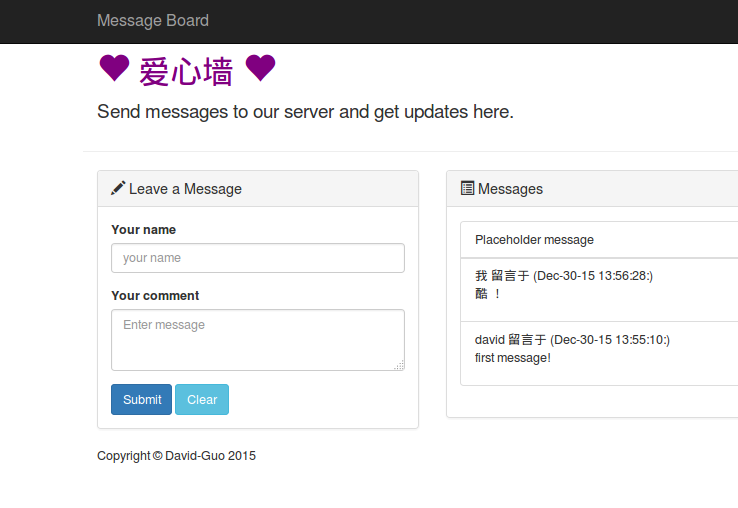
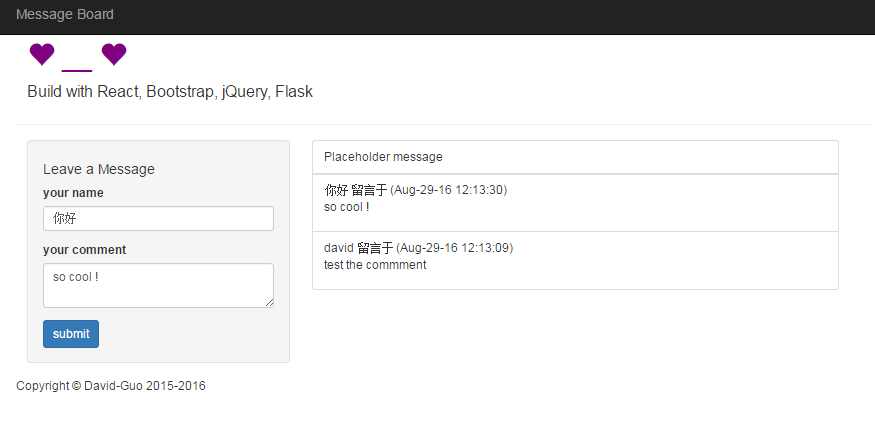
fix README

diff --git a/README.md b/README.md
@@ -1,10 +1,24 @@
-# Flask web 框架学习
-
-学习使用Flask 框架构建简单的留言板
+# Flask & React 留言板应用
 
 [开发日志](./buildlog.md)
 
-这个应用只是一个简单的单页面留言板，使用 Python-Flask，HTML/CSS，Twitter Bootstrap ，采用响应式设计。
+这个应用只是一个简单的单页面留言板，采用响应式设计。使用技术：
+
+* Python-Flask
+* React
+* AJAX
+* webpack
+* Bootstrap
+
+* frontend: 首次使用 React 结合 webpack 构建工具.
+* backend: 使用 flask 框架，shelve 模块储存数据，可能是最简单的留言板，后端代码只有十几行.
+
+## 亮点
+
+* 响应式设计
+* 前端使用 react 处理表单，AJAX 传递数据，简单易懂，全部代码只有100行
+* 使用 python 内建模块 shelve 存储数据，无需安装其他数据库客户端，配置数据库
+* 无需下载其他依赖，下载整个项目，开启 http server 即可在浏览器看到效果
 
 桌面浏览器效果如下：
 
@@ -19,28 +33,15 @@
 </figure>
 </p>
 
+## 后端构建
 
-## 环境
-
-1. 系统：Ubuntu 14.04 64
-2. 虚拟环境：virtualenv
-
-
-## 安装
-
-下载工程并开启虚拟环境
-
-```shell
-git clone https://github.com/David-Guo/build_blog
-cd build_blog
-``````
-
-启动虚拟环境，安装工程依赖
+启动虚拟环境，安装工程依赖，开启 http server
 
 ```shell
 $ virtualenv venv
 $ source venv/bin/activate
 (venv)$ pip install -r requirements.txt
+(venv)$ python manager.py runserver
 ``````
 
 退出虚拟环境
@@ -49,7 +50,7 @@ $ source venv/bin/activate
 (venv)$ deactivate
 ``````
 
-## TODO 
+## 前端构建
 
-* [ ] 学习Bootstrap 框架
-* [ ] 学习JavaScript
+* 安装依赖： `cd app/static/js && npm install`
+* 启动 webpack：`npm start`
